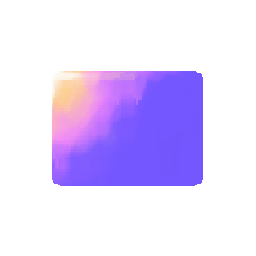
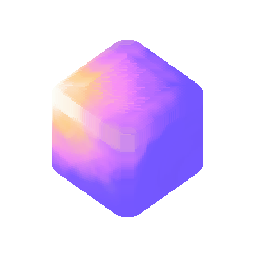
Rotate to isometric view.

Changed region(s): [[0.1875, 0.1562, 0.8125, 0.875]]

diff --git a/src/bin/rasterize.rs b/src/bin/rasterize.rs
@@ -137,6 +137,14 @@ impl Rotor3 {
         self.s /= length;
         self.xy /= length; self.xz /= length; self.yz /= length;
     }
+    fn multiply(self, m: Rotor3) -> Self {
+        Rotor3 {
+            s: self.s * m.s - self.xy * m.xy - self.xz * m.xz - self.yz * m.yz,
+            xy: self.xy * m.s + self.s * m.xy + self.yz * m.xz - self.xz * m.yz,
+            xz: self.xz * m.s + self.s * m.xz - self.yz * m.xy + self.xy * m.yz,
+            yz: self.yz * m.s + self.s * m.yz + self.xz * m.xy - self.xy * m.xz,
+        }
+    }
     fn rotate(self, v: &Vertex) -> Vertex {
         let tmp_x: f32 = self.s * v.x + v.y * self.xy + v.z * self.xz;
         let tmp_y: f32 = self.s * v.y - v.x * self.xy + v.z * self.yz;
@@ -209,7 +217,7 @@ fn main () {
         let plane2: BiVec3 = BiVec3::new(0.0, 0.0, 1.0);
         let rotor2 = Rotor3::new_from_angle_and_plane(plane2, 45.0f32 * (PI/180.0f32));
         //rotate rotor with rotor
-        let rotor3: Rotor3 = 
+        let rotor3: Rotor3 = rotor2.multiply(rotor1);
         let rotated_vert: Vertex = rotor3.rotate(&vert);
         rotated_vertices.push( rotated_vert );
     }
